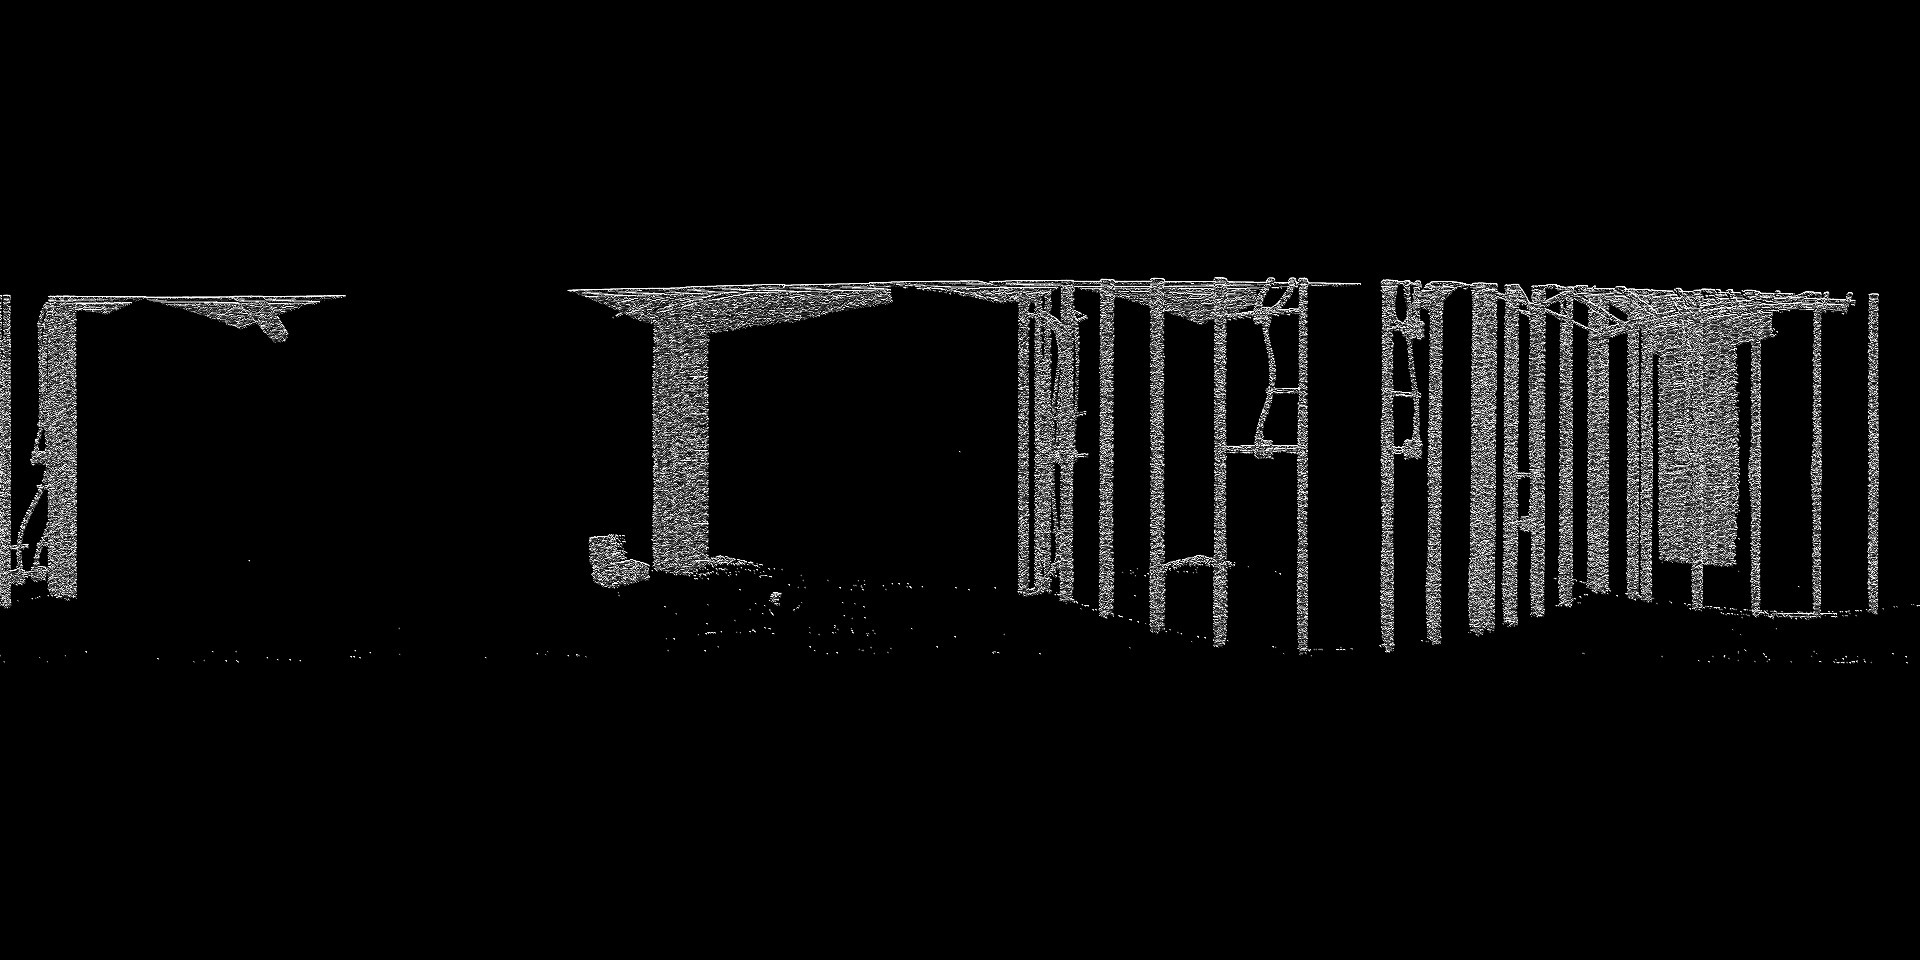
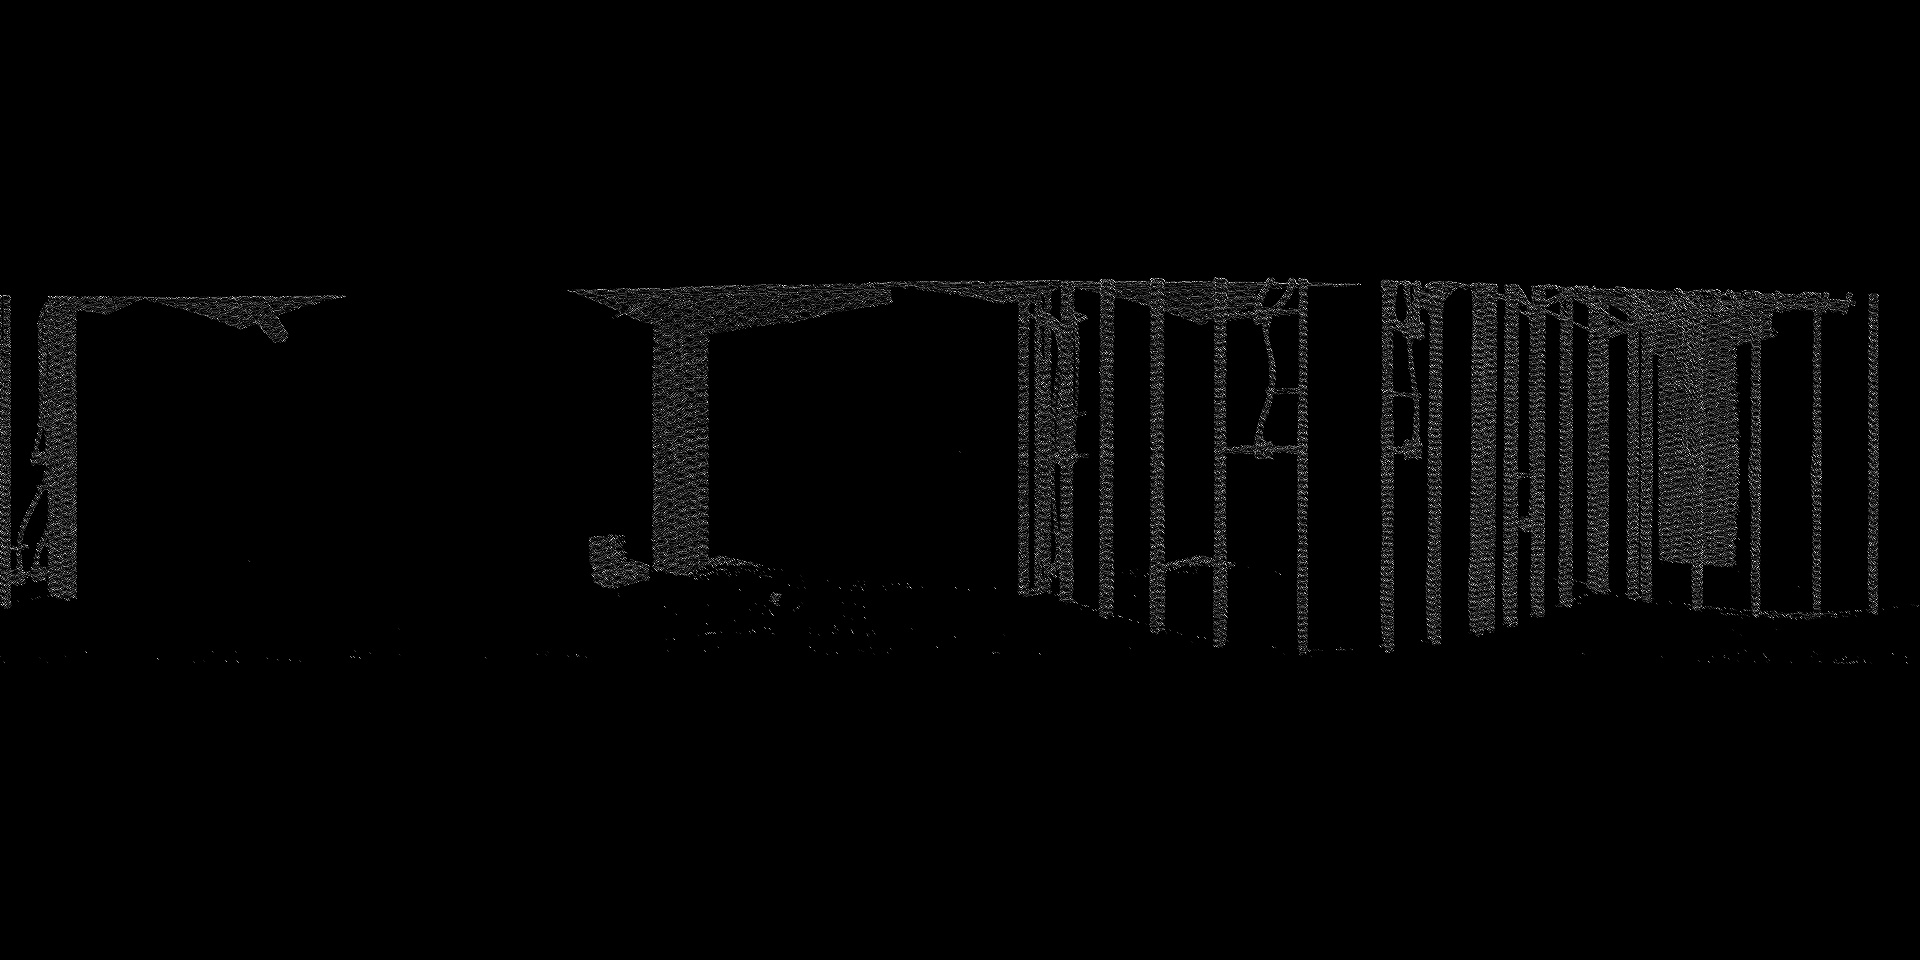
feat#37: imshow projected image

diff --git a/src/operation.cpp b/src/operation.cpp
@@ -927,8 +927,8 @@ void PointOperation::test_location()
     // std::cout << "nochange_eva" << eva << std::endl;
 
     // NOTE: 一旦ストップ
-    // std::string continue_step = 0;
-    // std::cin >> continue_step;
+    std::string continue_step = 0;
+    std::cin >> continue_step;
 
     // CHECK: 同じ画像でやってみる。
     // double mse = image.compute_MSE(image.get_mat_edge(), image.get_mat_edge());
@@ -940,89 +940,59 @@ void PointOperation::test_location()
 
     // =========== LiDAR 処理 ===========
 
-    // translate search
-    // xyz 探索範囲
-    // 0.1 なら ±0.1の範囲を探索
-    // 一時的に 0 にして 回転に集中
-    double x_limit = 0.01;
-    double y_limit = 0.01;
-    double z_limit = 0.01;
-
-    // // 刻み幅
-    double x_split = 0.005;
-    double y_split = 0.005;
-    double z_split = 0.005;
-
-    removed_floor_ply_point.transform(Eigen::Vector3d(-x_limit, -y_limit, -z_limit));
     double eva_img = 100000;
-    Eigen::Vector3d best_transform = {0, 0, 0};
-    Eigen::Matrix3d best_rotate = Eigen::Matrix3d::Identity();
     int count = 0;
 
-    for (double x = -x_limit; x < x_limit; x += x_split)
+    // 並進の適用
+    Eigen::Vector3d transform = {x_split, y_split, z_split};
+    removed_floor_ply_point.transform(transform);
+    std::cout << count++ << ":" << transform.transpose() << std::endl;
+
+    // ply to img
+    removed_floor_ply_point.convert_to_polar_overwrite();
+    LidarImg lidar_img;
+    lidar_img.set_zero_img_projected(image.get_height(), image.get_width());
+    lidar_img.ply_to_img(removed_floor_ply_point);
+
+    cv::imwrite("ply2img_origin.png", lidar_img.get_mat_projected());
+    // rotate seartch
+    // z軸回転 は 画像のshiftで対応する
+    int shift_x = 1;
+    int shift_y = 1;
+
+    for (int i = 0; i < image.get_width(); i++)
     {
-        for (double y = -y_limit; y < y_limit; y += y_split)
+        cv::Mat shift_img = cv::Mat::zeros(image.get_height(), image.get_width(), CV_8UC1);
+        lidar_img.shift(shift_x, shift_y, shift_img);
+        lidar_img.edge_detect_sobel();
+
+        if (i == 1 || i == 100)
         {
-            for (double z = -z_limit; z < z_limit; z += z_split)
-            {
-                // 並進の適用
-                Eigen::Vector3d transform = {x_split, y_split, z_split};
-                removed_floor_ply_point.transform(transform);
-                std::cout << count++ << ":" << transform.transpose() << std::endl;
 
-                // ply to img
-                removed_floor_ply_point.convert_to_polar_overwrite();
-                LidarImg lidar_img;
-                lidar_img.set_zero_img_projected(image.get_height(), image.get_width());
-                lidar_img.ply_to_img(removed_floor_ply_point);
-
-                // rotate seartch
-                // z軸回転 は 画像のshiftで対応する
-                int shift_x = 1;
-                int shift_y = 1;
-
-                for (int i = 0; i < image.get_width(); i++)
-                {
-                    cv::Mat shift_img = cv::Mat::zeros(image.get_height(), image.get_width(), CV_8UC1);
-                    lidar_img.shift(shift_x, shift_y, shift_img);
-                    lidar_img.edge_detect_sobel();
-
-                    if (i == 1 || i == 100)
-                    {
-
-                        cv::Mat output;
-                        lidar_img.get_mat_projected().copyTo(output);
-                        cv::resize(output, output, cv::Size(), 0.25, 0.25);
-                        cv::imshow("shifted", output);
-                        cv::waitKey(0);
-                    }
-
-                    // lidar_img.edge_detect_sobel();
-                }
-
-                std::cout << "ok" << std::endl;
-
-                // ここから点群と画像の比較処理
-                // double eva_tmp = img_projection(removed_floor_ply_point, lidar_img, image);
-                // if (eva_img > eva_tmp)
-                // {
-                //     best_transform = transform;
-                //     best_rotate = rotate_mat;
-                //     eva_img = eva_tmp;
-                // }
-            }
+            cv::Mat output;
+            lidar_img.get_mat_projected().copyTo(output);
+            cv::resize(output, output, cv::Size(), 0.25, 0.25);
+            cv::imshow("shifted", output);
+            cv::waitKey(0);
         }
+
+        // lidar_img.edge_detect_sobel();
     }
-    std::cout << "RESULT" << std::endl
-              << "transform" << std::endl
-              << best_transform.transpose() << std::endl
-              << "rotate" << std::endl
-              << best_rotate << std::endl
-              << "eva" << eva_img << std::endl;
+
+    std::cout << "ok" << std::endl;
+
+    // ここから点群と画像の比較処理
+    // double eva_tmp = img_projection(removed_floor_ply_point, lidar_img, image);
+    // if (eva_img > eva_tmp)
+    // {
+    //     best_transform = transform;
+    //     best_rotate = rotate_mat;
+    //     eva_img = eva_tmp;
+    // }
 }
 
 /*
- * @brief 対比
+ * @brief 退避
  *
 void lidar_search_all_position()
 {
@@ -1086,6 +1056,13 @@ void lidar_search_all_position()
             }
         }
     }
+
+    std::cout << "RESULT" << std::endl
+              << "transform" << std::endl
+              << best_transform.transpose() << std::endl
+              << "rotate" << std::endl
+              << best_rotate << std::endl
+              << "eva" << eva_img << std::endl;
 }
 
 */

diff --git a/src/img_proc.cpp b/src/img_proc.cpp
@@ -49,10 +49,12 @@ void LidarImg::edge_detect_sobel()
     // cv::Canny(img_projected, tmp, 50, 200, 3, true);
 
     cv::GaussianBlur(img_projected, sobel_tmp, cv::Size(5, 5), 0, 0, cv::BORDER_DEFAULT);
-    cv::Sobel(sobel_tmp, sobel_x, CV_8U, 1, 1, 5);
-    cv::Sobel(sobel_tmp, sobel_y, CV_8U, 0, 1, 5);
+    cv::Sobel(sobel_tmp, tmp, CV_8UC1, 1, 1, 5);
 
-    cv::add(sobel_x, sobel_y, tmp);
+    // cv::Sobel(sobel_tmp, sobel_x, CV_8U, 1, 1, 5);
+    // cv::Sobel(sobel_tmp, sobel_y, CV_8U, 0, 1, 5);
+
+    // cv::add(sobel_x, sobel_y, tmp);
     // tmp = img_projected;
     img_edge = tmp;
 
